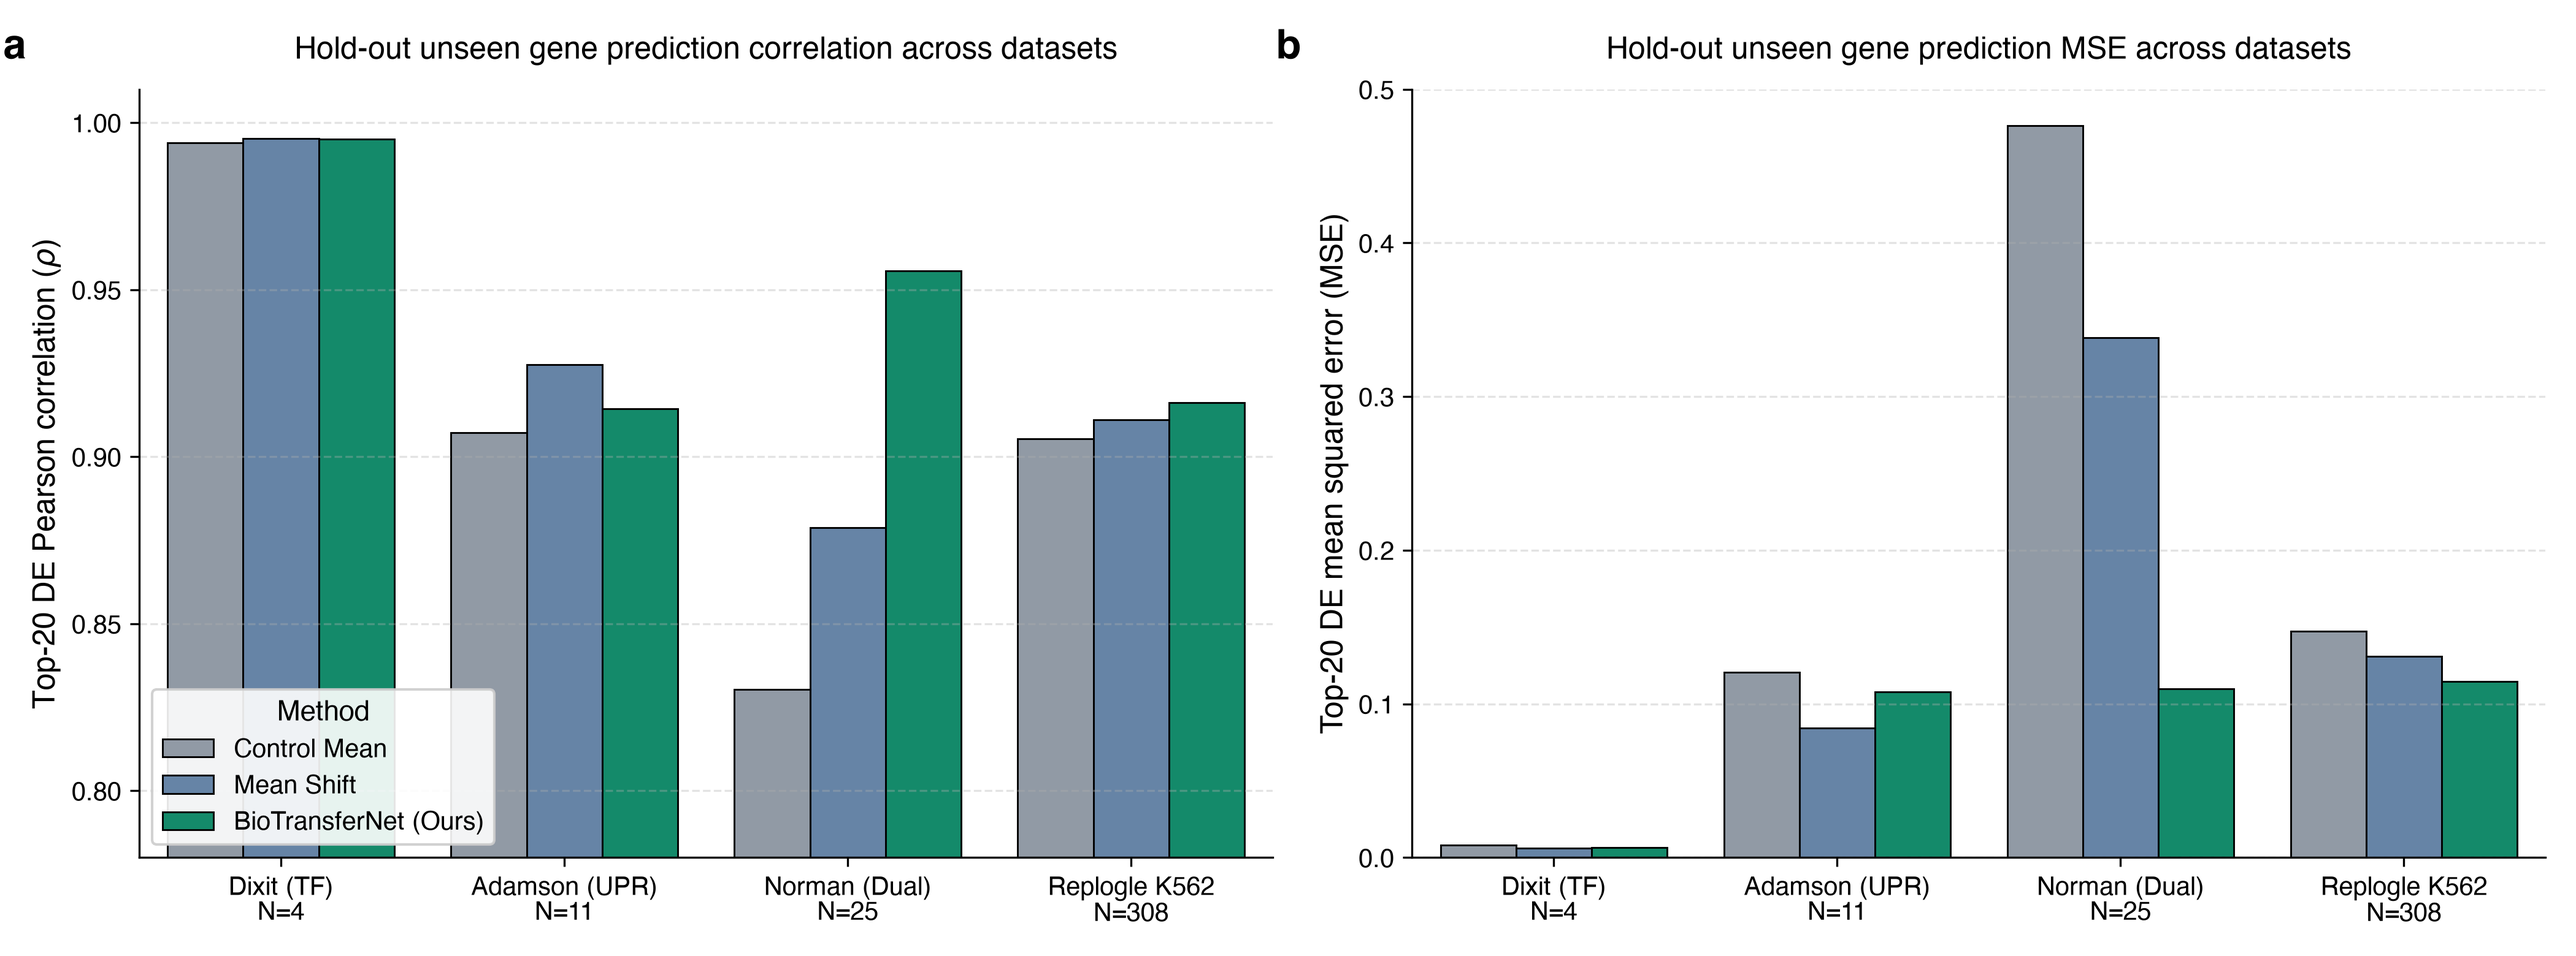
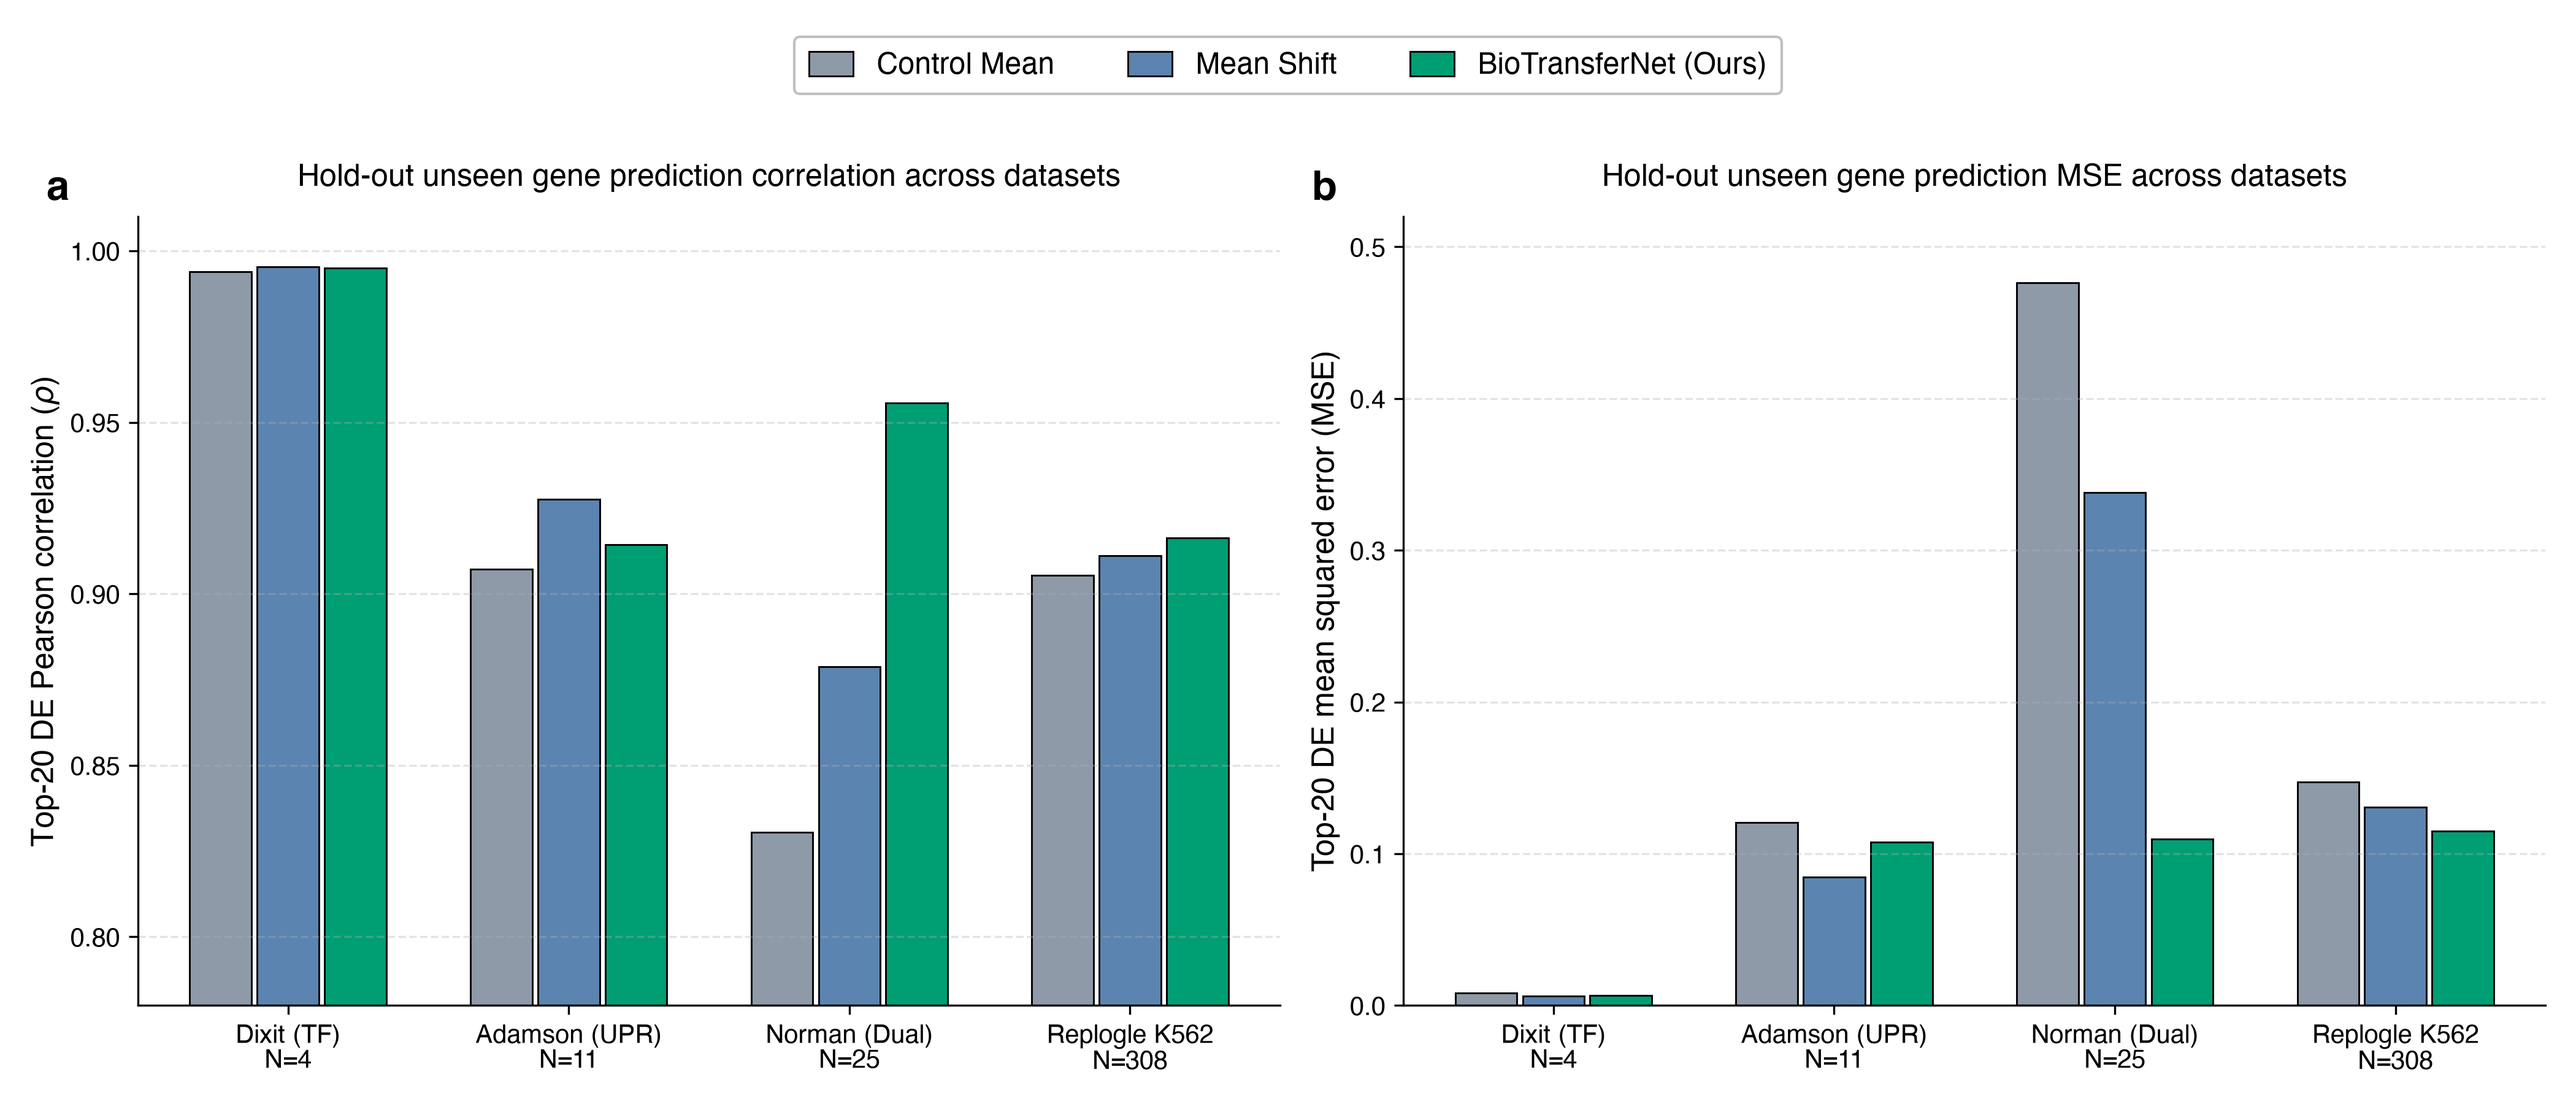
fix(figures): overhaul Figure 1 and 4 legends and center task bar groupings

diff --git a/scripts/generate_paper_figures.py b/scripts/generate_paper_figures.py
@@ -56,63 +56,120 @@ def plot_fig1_benchmark_performance():
 
     df = pd.read_csv(csv_path)
 
-    scenario_map = {
-        "Task_1_K562_OOD_Test": "Task 1: K562 Unseen OOD\nKnockouts (N=308)",
-        "Task_2_RPE1_Transfer_TrainPerts": "Task 2: RPE1 Transfer of\nScreened Genes (N=1,542)",
-        "Task_3_RPE1_Dual_ZeroShot_TestPerts": "Task 3: Dual Zero-Shot\nRPE1 Unseen Genes (N=308)",
+    scenarios = [
+        "Task_1_K562_OOD_Test",
+        "Task_2_RPE1_Transfer_TrainPerts",
+        "Task_3_RPE1_Dual_ZeroShot_TestPerts",
+    ]
+    scenario_labels = [
+        "Task 1: K562 Unseen OOD\nKnockouts (N=308)",
+        "Task 2: RPE1 Transfer of\nScreened Genes (N=1,542)",
+        "Task 3: Dual Zero-Shot\nRPE1 Unseen Genes (N=308)",
+    ]
+
+    model_display_map = {
+        "Control Mean": "Control Mean",
+        "Mean Shift": "Mean Shift",
+        "BioTransferNet (De Novo)": "BioTransferNet (Ours)",
+        "Naive K562 Shift Copy": "Naive Shift Copy",
+        "BioTransferTranslator (Screen Translation)": "BioTransferTranslator (Ours)",
     }
-    df["Scenario_Clean"] = df["Scenario"].map(scenario_map)
+    df["Model_Clean"] = df["Model"].map(model_display_map)
+
+    all_models = [
+        "Control Mean",
+        "Mean Shift",
+        "BioTransferNet (Ours)",
+        "Naive Shift Copy",
+        "BioTransferTranslator (Ours)",
+    ]
 
     palette = {
         "Control Mean": "#8E9AA8",
         "Mean Shift": "#5B84B1",
-        "Naive K562 Shift Copy": "#E69F00",
-        "BioTransferNet (De Novo)": "#009E73",
-        "BioTransferTranslator (Screen Translation)": "#D55E00",
+        "BioTransferNet (Ours)": "#009E73",
+        "Naive Shift Copy": "#E69F00",
+        "BioTransferTranslator (Ours)": "#D55E00",
     }
 
-    fig, axes = plt.subplots(1, 2, figsize=(14, 5.2))
+    models_per_task = {
+        "Task_1_K562_OOD_Test": ["Control Mean", "Mean Shift", "BioTransferNet (Ours)"],
+        "Task_2_RPE1_Transfer_TrainPerts": [
+            "Control Mean",
+            "Mean Shift",
+            "BioTransferNet (Ours)",
+            "Naive Shift Copy",
+            "BioTransferTranslator (Ours)",
+        ],
+        "Task_3_RPE1_Dual_ZeroShot_TestPerts": [
+            "Control Mean",
+            "Mean Shift",
+            "BioTransferNet (Ours)",
+            "Naive Shift Copy",
+            "BioTransferTranslator (Ours)",
+        ],
+    }
 
-    # Panel a: Pearson Correlation
-    ax = axes[0]
-    add_panel_label(ax, "a")
-    sns.barplot(
-        data=df,
-        x="Scenario_Clean",
-        y="pearson_top20_de",
-        hue="Model",
-        palette=palette,
-        ax=ax,
-        edgecolor="black",
-        linewidth=0.7,
+    bar_width = 0.135
+    fig, axes = plt.subplots(1, 2, figsize=(14, 6.0))
+
+    metrics = [
+        ("pearson_top20_de", "Top-20 DE genes Pearson correlation", "Pearson correlation ($\\rho$)", (0.75, 1.01)),
+        ("mse_top20_de", "Top-20 DE genes mean squared error", "Mean squared error (MSE)", (0.0, 0.58)),
+    ]
+
+    for ax_idx, (col, title, ylabel, ylim) in enumerate(metrics):
+        ax = axes[ax_idx]
+        add_panel_label(ax, "a" if ax_idx == 0 else "b", x=-0.08, y=1.06)
+
+        for s_idx, s_key in enumerate(scenarios):
+            m_list = models_per_task[s_key]
+            n_bars = len(m_list)
+            offsets = (np.arange(n_bars) - (n_bars - 1) / 2) * (bar_width + 0.01)
+
+            sub_df = df[df["Scenario"] == s_key].set_index("Model_Clean")
+            for m_i, m_name in enumerate(m_list):
+                if m_name in sub_df.index:
+                    val = float(sub_df.loc[m_name, col])
+                    ax.bar(
+                        s_idx + offsets[m_i],
+                        val,
+                        width=bar_width,
+                        color=palette[m_name],
+                        edgecolor="black",
+                        linewidth=0.7,
+                    )
+
+        ax.set_xticks(range(len(scenarios)))
+        ax.set_xticklabels(scenario_labels)
+        ax.set_ylabel(ylabel)
+        ax.set_title(title, pad=12, fontweight="medium")
+        ax.set_ylim(ylim)
+        ax.grid(axis="y", linestyle="--", alpha=0.35)
+
+    legend_elements = [
+        plt.Rectangle((0, 0), 1, 1, facecolor=palette[m], edgecolor="black", linewidth=0.7, label=m)
+        for m in all_models
+    ]
+
+    fig.legend(
+        handles=legend_elements,
+        labels=all_models,
+        loc="upper center",
+        bbox_to_anchor=(0.5, 0.98),
+        ncol=5,
+        frameon=True,
+        facecolor="white",
+        edgecolor="#C0C0C0",
+        framealpha=1.0,
+        fontsize=11,
+        handlelength=1.4,
+        handleheight=0.9,
+        columnspacing=1.6,
+        borderpad=0.5,
     )
-    ax.set_title("Top-20 DE genes Pearson correlation", pad=12, fontweight="medium")
-    ax.set_ylabel("Pearson correlation ($\\rho$)")
-    ax.set_xlabel("")
-    ax.set_ylim(0.75, 1.01)
-    ax.grid(axis="y", linestyle="--", alpha=0.35)
-    ax.legend(title="Method", frameon=True, facecolor="white", framealpha=0.9, loc="lower left")
 
-    # Panel b: Mean Squared Error
-    ax = axes[1]
-    add_panel_label(ax, "b")
-    sns.barplot(
-        data=df,
-        x="Scenario_Clean",
-        y="mse_top20_de",
-        hue="Model",
-        palette=palette,
-        ax=ax,
-        edgecolor="black",
-        linewidth=0.7,
-    )
-    ax.set_title("Top-20 DE genes mean squared error", pad=12, fontweight="medium")
-    ax.set_ylabel("Mean squared error (MSE)")
-    ax.set_xlabel("")
-    ax.grid(axis="y", linestyle="--", alpha=0.35)
-    ax.legend().remove()
-
-    plt.tight_layout()
+    plt.tight_layout(rect=[0, 0, 1, 0.88])
     out_path = OUT_DIR / "fig1_benchmark_performance.png"
     plt.savefig(out_path)
     plt.close()
@@ -303,8 +360,8 @@ def plot_fig4_multi_dataset_benchmark():
         records.append({
             "Dataset": r["Dataset"],
             "Model": r["Model"],
-            "pearson_top20_de": r["Pearson ρ (Top-20 DE)"],
-            "mse_top20_de": r["MSE (Top-20 DE)"],
+            "pearson_top20_de": float(r["Pearson ρ (Top-20 DE)"]),
+            "mse_top20_de": float(r["MSE (Top-20 DE)"]),
         })
 
     for _, r in k562_ood.iterrows():
@@ -312,16 +369,15 @@ def plot_fig4_multi_dataset_benchmark():
             records.append({
                 "Dataset": "k562_essential",
                 "Model": r["Model"],
-                "pearson_top20_de": r["pearson_top20_de"],
-                "mse_top20_de": r["mse_top20_de"],
+                "pearson_top20_de": float(r["pearson_top20_de"]),
+                "mse_top20_de": float(r["mse_top20_de"]),
             })
 
     df_all = pd.DataFrame(records)
 
     dataset_order = ["dixit", "adamson", "norman", "k562_essential"]
     dataset_labels = ["Dixit (TF)\nN=4", "Adamson (UPR)\nN=11", "Norman (Dual)\nN=25", "Replogle K562\nN=308"]
-    ds_map = dict(zip(dataset_order, dataset_labels))
-    df_all["Dataset_Clean"] = df_all["Dataset"].map(ds_map)
+    models = ["Control Mean", "Mean Shift", "BioTransferNet (Ours)"]
 
     palette = {
         "Control Mean": "#8E9AA8",
@@ -329,48 +385,64 @@ def plot_fig4_multi_dataset_benchmark():
         "BioTransferNet (Ours)": "#009E73",
     }
 
-    fig, axes = plt.subplots(1, 2, figsize=(14, 5.2))
+    bar_width = 0.22
+    fig, axes = plt.subplots(1, 2, figsize=(14, 6.0))
 
-    # Panel a: Pearson correlation
-    ax = axes[0]
-    add_panel_label(ax, "a")
-    sns.barplot(
-        data=df_all,
-        x="Dataset_Clean",
-        y="pearson_top20_de",
-        hue="Model",
-        palette=palette,
-        ax=ax,
-        edgecolor="black",
-        linewidth=0.7,
+    metrics = [
+        ("pearson_top20_de", "Hold-out unseen gene prediction correlation across datasets", "Top-20 DE Pearson correlation ($\\rho$)", (0.78, 1.01)),
+        ("mse_top20_de", "Hold-out unseen gene prediction MSE across datasets", "Top-20 DE mean squared error (MSE)", (0.0, 0.52)),
+    ]
+
+    for ax_idx, (col, title, ylabel, ylim) in enumerate(metrics):
+        ax = axes[ax_idx]
+        add_panel_label(ax, "a" if ax_idx == 0 else "b", x=-0.08, y=1.06)
+
+        offsets = (np.arange(len(models)) - (len(models) - 1) / 2) * (bar_width + 0.02)
+
+        for d_idx, ds in enumerate(dataset_order):
+            sub_df = df_all[df_all["Dataset"] == ds].set_index("Model")
+            for m_i, m_name in enumerate(models):
+                if m_name in sub_df.index:
+                    val = float(sub_df.loc[m_name, col])
+                    ax.bar(
+                        d_idx + offsets[m_i],
+                        val,
+                        width=bar_width,
+                        color=palette[m_name],
+                        edgecolor="black",
+                        linewidth=0.7,
+                    )
+
+        ax.set_xticks(range(len(dataset_order)))
+        ax.set_xticklabels(dataset_labels)
+        ax.set_ylabel(ylabel)
+        ax.set_title(title, pad=12, fontweight="medium")
+        ax.set_ylim(ylim)
+        ax.grid(axis="y", linestyle="--", alpha=0.35)
+
+    legend_elements = [
+        plt.Rectangle((0, 0), 1, 1, facecolor=palette[m], edgecolor="black", linewidth=0.7, label=m)
+        for m in models
+    ]
+
+    fig.legend(
+        handles=legend_elements,
+        labels=models,
+        loc="upper center",
+        bbox_to_anchor=(0.5, 0.98),
+        ncol=3,
+        frameon=True,
+        facecolor="white",
+        edgecolor="#C0C0C0",
+        framealpha=1.0,
+        fontsize=11.5,
+        handlelength=1.5,
+        handleheight=0.9,
+        columnspacing=2.5,
+        borderpad=0.5,
     )
-    ax.set_title("Hold-out unseen gene prediction correlation across datasets", pad=12, fontweight="medium")
-    ax.set_ylabel("Top-20 DE Pearson correlation ($\\rho$)")
-    ax.set_xlabel("")
-    ax.set_ylim(0.78, 1.01)
-    ax.grid(axis="y", linestyle="--", alpha=0.35)
-    ax.legend(title="Method", frameon=True, facecolor="white", framealpha=0.9, loc="lower left")
 
-    # Panel b: MSE
-    ax = axes[1]
-    add_panel_label(ax, "b")
-    sns.barplot(
-        data=df_all,
-        x="Dataset_Clean",
-        y="mse_top20_de",
-        hue="Model",
-        palette=palette,
-        ax=ax,
-        edgecolor="black",
-        linewidth=0.7,
-    )
-    ax.set_title("Hold-out unseen gene prediction MSE across datasets", pad=12, fontweight="medium")
-    ax.set_ylabel("Top-20 DE mean squared error (MSE)")
-    ax.set_xlabel("")
-    ax.grid(axis="y", linestyle="--", alpha=0.35)
-    ax.legend().remove()
-
-    plt.tight_layout()
+    plt.tight_layout(rect=[0, 0, 1, 0.88])
     out_path = OUT_DIR / "fig4_multi_dataset_benchmark.png"
     plt.savefig(out_path)
     plt.close()
